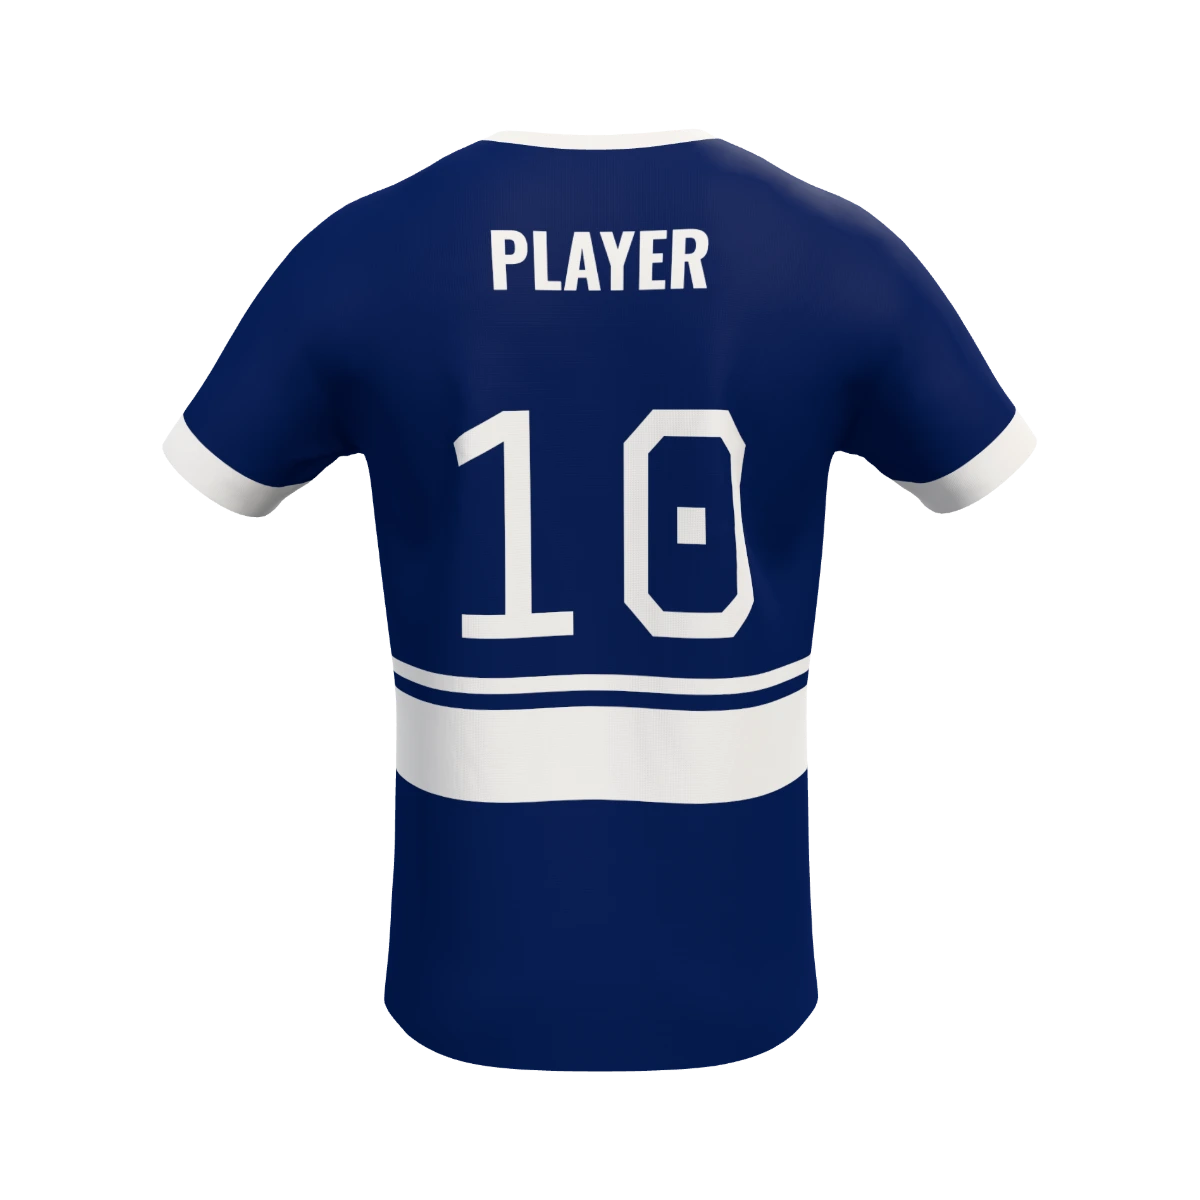
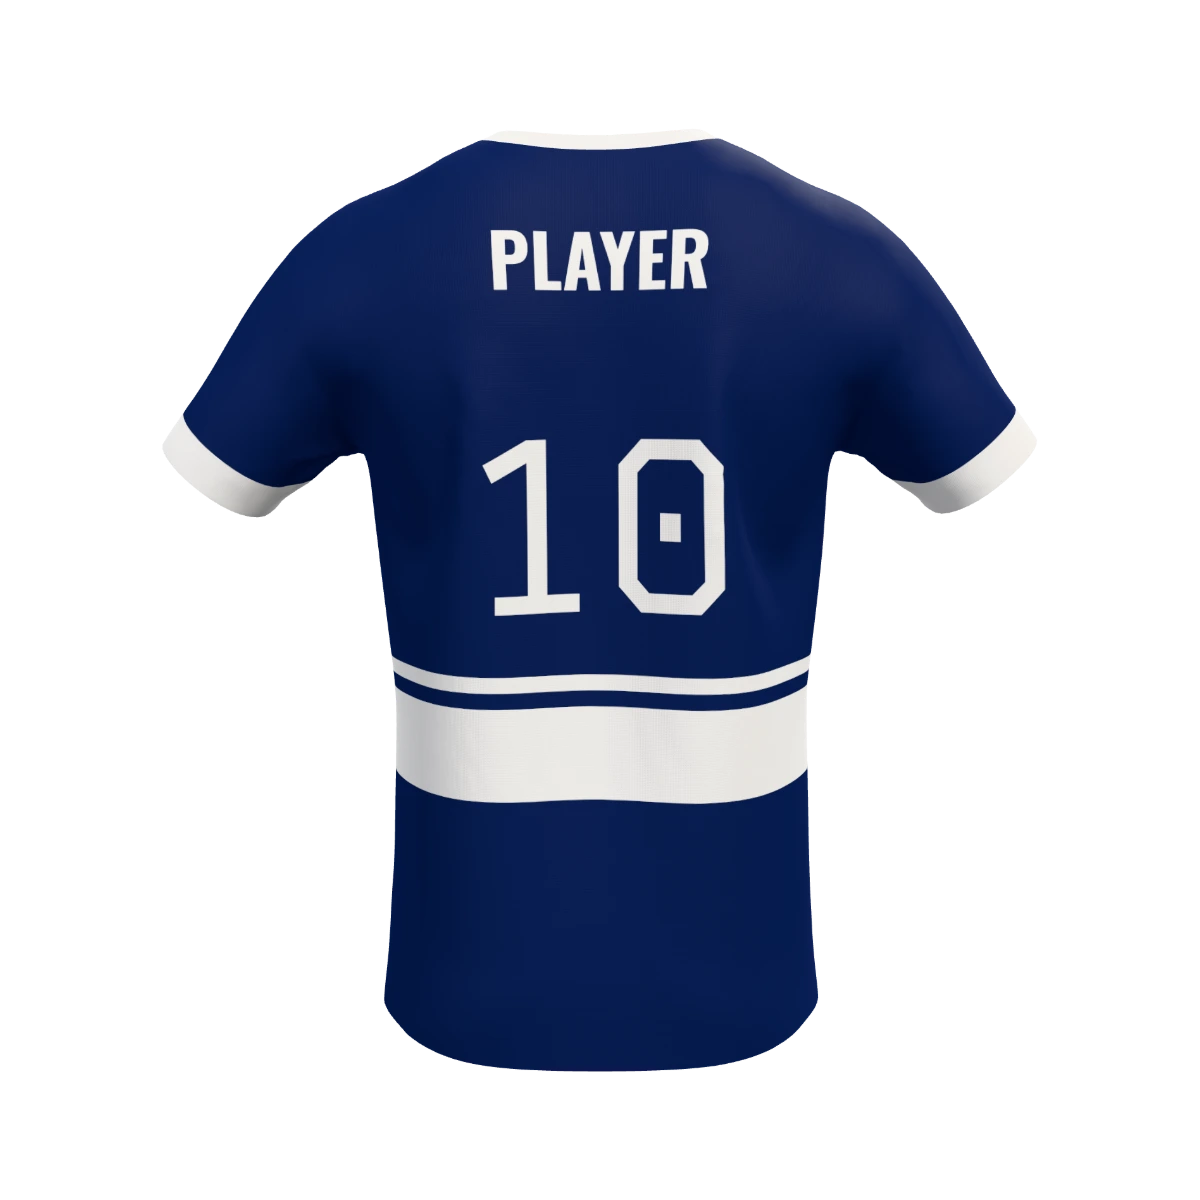
G5: T-shirt back number smaller so it does not wrap over the side seam; pictures rendered again; README

Changed region(s): [[0.4933, 0.3392, 0.6475, 0.555], [0.37, 0.3392, 0.4933, 0.555]]

diff --git a/packages/editor/demo/pictures-layout.ts b/packages/editor/demo/pictures-layout.ts
@@ -6,13 +6,21 @@
 export type PictureSide = "front" | "back";
 
 /** The garments that get pictures, with the name used in the file names. */
-export const PICTURE_GARMENTS = [
+export interface PictureGarment {
+  productId: string;
+  /** The name in the file names. */
+  name: string;
+  /** The product's own template the kit uses. */
+  template: string;
+  /** The back number's font size in pattern mm, when the product's default is too wide for this model's back (the stand-in T-shirt's number wraps over the side seam at 215). */
+  numberSize?: number;
+}
+
+export const PICTURE_GARMENTS: readonly PictureGarment[] = [
   { productId: "match-jersey-vneck", name: "jersey-vneck", template: "classic" },
   { productId: "match-jersey-round", name: "jersey-round", template: "classic" },
-  { productId: "stand-in-tshirt", name: "tshirt", template: "band" },
-] as const;
-
-export type PictureGarment = (typeof PICTURE_GARMENTS)[number];
+  { productId: "stand-in-tshirt", name: "tshirt", template: "band", numberSize: 165 },
+];
 
 /** The picture's edge in pixels, and how much of it the garment fills (its taller side, over the whole set). */
 export const PICTURE_SIZE = 1200;

diff --git a/packages/editor/demo/pictures.tsx b/packages/editor/demo/pictures.tsx
@@ -21,6 +21,7 @@ import {
   applyTemplate,
   createDesign,
   fontsReady,
+  updateLayer,
   validateFontCatalog,
   validatePalette,
   validateProductDefinition,
@@ -79,7 +80,11 @@ async function loadKit(garment: PictureGarment, palette: Palette, fonts: FontCat
   const base = createDesign(product, { teamColors: { main: colour(KIT.main), second: colour(KIT.second) }, teamName: "", samplePlayer: SAMPLE });
   const tpl = validateTemplate(await fetchJson(`/templates/${garment.productId}/${garment.template}.json`), { product, fonts });
   if (!tpl.ok) throw new Error(`template ${garment.template}: ${tpl.errors.map((e) => e.message).join("; ")}`);
-  return { garment, product, design: applyTemplate(base, tpl.value, { product, fonts }) };
+  let design = applyTemplate(base, tpl.value, { product, fonts });
+  if (garment.numberSize) {
+    for (const layer of design.layers) if (layer.role === "player-number") design = updateLayer(design, layer.id, { fontSize: garment.numberSize }, { product });
+  }
+  return { garment, product, design };
 }
 
 const frames = (n: number) =>

diff --git a/packages/editor/README.md b/packages/editor/README.md
@@ -647,7 +647,7 @@ The match jersey's cloth is evenly lit: roughness 0.72 (it was 0.5, and its broa
 
 The store's product pages, product list and "Design your kit" page showed stand-in photos from another company's site. **The six pictures in `samples/pictures/products/` replace them**: `jersey-vneck-front.webp`, `jersey-vneck-back.webp`, `jersey-round-front.webp`, `jersey-round-back.webp`, `tshirt-front.webp` and `tshirt-back.webp`. Each is 1200 x 1200, WebP with a **transparent background** (the store puts them on its own light grey), the garment alone (no person), centred, at most 200 KB. They are rendered from the editor's own 3D models with the designer's lights and fabric, so they show what the editor shows.
 
-**One kit for all six:** the product's own template in navy (Main) and white (Second): `classic` on both match jerseys, `band` on the T-shirt. No team name and no logo on the front. On the back, the sample name `PLAYER` and number `10` in the product's default lettering (Oswald for the name, Graduate for the number, from the template's slots). The V-neck and the round neck differ in the collar. One camera and one scale for the whole set: the tallest render (a back view) fills 80% of the height, and the others keep their real relative size.
+**One kit for all six:** the product's own template in navy (Main) and white (Second): `classic` on both match jerseys, `band` on the T-shirt. No team name and no logo on the front. On the back, the sample name `PLAYER` and number `10` in the product's default lettering (Oswald for the name, Graduate for the number, from the template's slots).  On the T-shirt the number is set at 165 mm instead of the preset's 215 (`numberSize` in `demo/pictures-layout.ts`): at 215 the stand-in T-shirt's back lets the 0 wrap over the side seam. The V-neck and the round neck differ in the collar. One camera and one scale for the whole set: the tallest render (a back view) fills 80% of the height, and the others keep their real relative size.
 
 **To make them again** (needs Google Chrome on this computer, with a GPU or `--software`; no new package):
 
